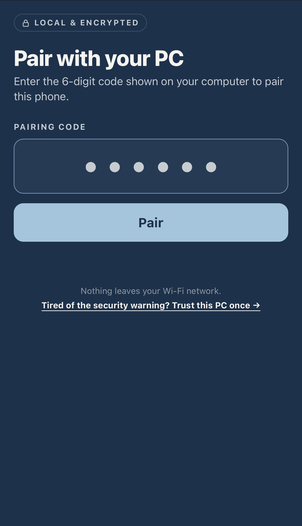
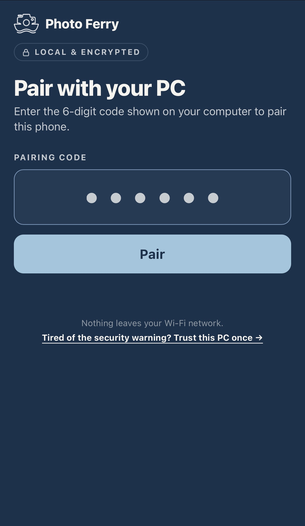
feat: name the product on the phone page, and retake the screenshots for it
The page never said "Photo Ferry" anywhere. Someone arriving from a
scanned QR, past a certificate warning, had nothing on screen telling
them what they were looking at. The mark and the wordmark now sit above
the LOCAL & ENCRYPTED chip: "what is this" comes before "is it safe".

Inlined as a data URI rather than served from a route. The page is a
single static file on a token-gated server, so an asset route would
force a decision about whether a decorative image authenticates. 6 KB on
a 44 KB page.

A hand-ported SVG was written first and thrown away. The source vector
draws the small viewfinder bar as a degenerate near-zero-length path,
which renders as a blob at 28px, and nothing in this seat can render an
SVG to check. A raster of the approved artwork cannot be wrong about the
shape, and the data URI was decoded back and asserted to be a valid
73x56 RGBA with real transparency before it reached a device.

No new colour pairing: the wordmark is --text on --bg at 11.95:1, which
tests/test_palette.py already approves.

The three phone screenshots are retaken because all three show the
header. Confirmed by pixel count to carry the final accent and no
earlier candidate. README dimensions follow the new aspect: the pair and
send shots are 305 wide rather than 302.

diff --git a/src/photo_ferry/static/upload.html b/src/photo_ferry/static/upload.html
@@ -59,6 +59,17 @@
   }
   .chip svg { width: 13px; height: 13px; }
 
+  /* Brand lockup. Until now the page never named the product anywhere: someone arriving
+     from a scanned QR, past a certificate warning, had no confirmation of what they were
+     looking at. It sits ABOVE the status chip because "what is this" comes before "is it
+     safe". Inline SVG with currentColor, the same pattern the chip's lock icon already
+     uses, so it costs no request and needs no asset route on a token-gated server.
+     --text on --bg is 11.95:1 and is already an approved pairing, so this introduces no
+     new colour combination for tests/test_palette.py to cover. */
+  .brand { display: flex; align-items: center; gap: 9px; margin-bottom: 14px;
+           color: var(--text); font-size: 19px; font-weight: 800; letter-spacing: -0.01em; }
+  .brand img { width: 36px; height: 28px; flex: none; }
+
   header { margin: 22px 0 26px; }
   h1 { font-size: 32px; line-height: 1.05; font-weight: 800; letter-spacing: -0.02em; margin: 14px 0 6px; }
   .sub { color: var(--text-2); font-size: 16px; line-height: 1.4; margin: 0; }
@@ -260,6 +271,20 @@
 </style>
 </head>
 <body>
+  <div class="brand">
+    <!-- The mark, inlined as a data URI rather than as an asset route. The page is a
+         single static file served from a token-gated server, so an <img src="/..."> would
+         mean a new route and a decision about whether it authenticates. It is the same
+         artwork as assets/app.ico, white on transparent, at 2x its render size.
+
+         A hand-ported SVG was tried first and abandoned: the source vector draws the
+         small viewfinder bar as a degenerate near-zero-length path, which renders as a
+         blob at this size, and nothing here can render an SVG to check. A raster of the
+         approved artwork cannot be wrong about the shape. -->
[1 lines of base64/hex data omitted]
+    Photo Ferry
+  </div>
+
   <span class="chip">
     <svg viewBox="0 0 24 24" fill="none" stroke="currentColor" stroke-width="2"><rect x="5" y="11" width="14" height="10" rx="2"/><path d="M8 11V8a4 4 0 0 1 8 0v3"/></svg>
     Local &amp; encrypted

diff --git a/README.md b/README.md
@@ -9,7 +9,7 @@ This is **not** AirDrop. AirDrop rides on Apple's proprietary AWDL protocol, whi
 supported implementation on Windows. Photo Ferry instead runs a tiny HTTPS server on your
 PC that your iPhone talks to through Safari. Same result, fully local.
 
-<img width="296" height="785" alt="PC receiver showing the scan-to-connect screen, the received-files list and the send-to-iPhone panel" src="docs/screenshots/desktop.png" /> <img width="302" height="526" alt="iPhone pairing screen" src="docs/screenshots/iphone-pair.png" /> <img width="302" height="526" alt="iPhone send-photos screen" src="docs/screenshots/iphone-send.jpg" /> <img width="302" height="526" alt="iPhone get-from-PC screen" src="docs/screenshots/iphone-receive.png" />
+<img width="296" height="785" alt="PC receiver showing the scan-to-connect screen, the received-files list and the send-to-iPhone panel" src="docs/screenshots/desktop.png" /> <img width="305" height="526" alt="iPhone pairing screen" src="docs/screenshots/iphone-pair.png" /> <img width="305" height="526" alt="iPhone send-photos screen" src="docs/screenshots/iphone-send.jpg" /> <img width="302" height="526" alt="iPhone get-from-PC screen" src="docs/screenshots/iphone-receive.png" />
 
 
 
